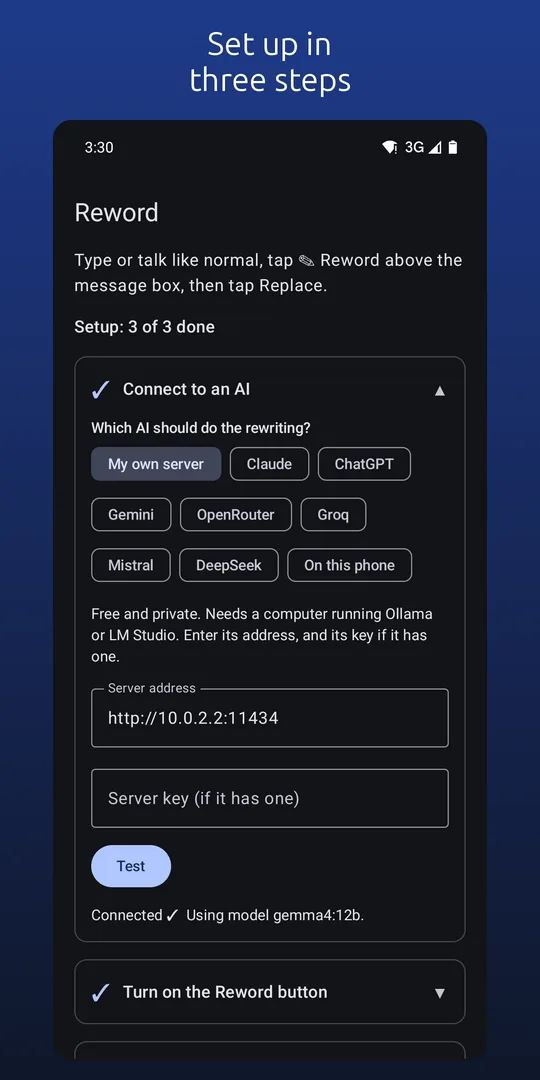
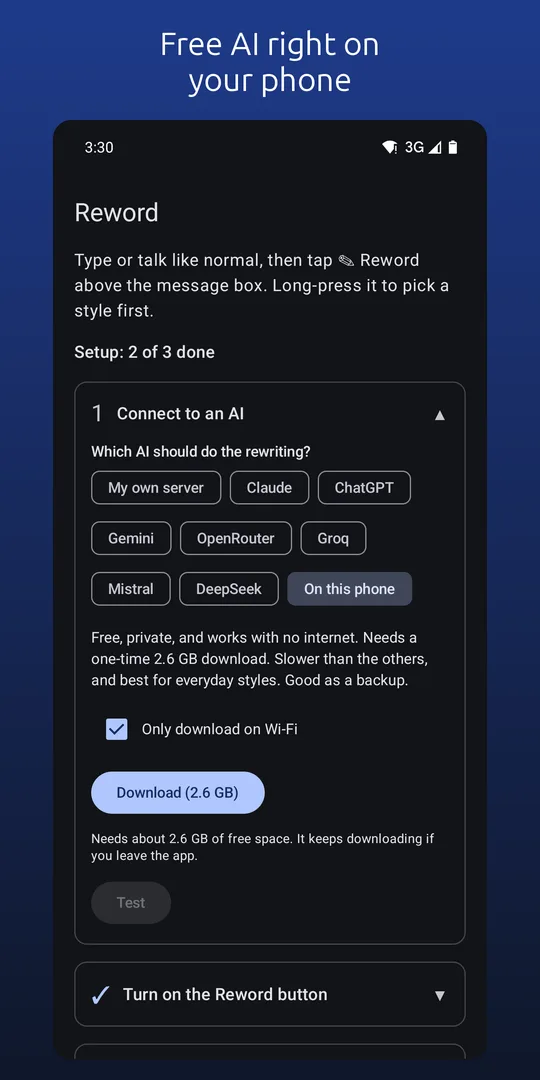
Privacy policy: every connection is encrypted; setup screenshot

diff --git a/index.html b/index.html
@@ -83,7 +83,7 @@ and see the rewrite before it goes in.</p>
   <li><a href="screens/05-piratesent.webp"><img src="screens/05-piratesent.webp" alt="The pirate rewrite after it was sent" width="540" height="1080" loading="lazy"></a></li>
   <li><a href="screens/06-lpbefore.webp"><img src="screens/06-lpbefore.webp" alt="Tapping the Reword button on a messy text about bringing home dinner" width="540" height="1080" loading="lazy"></a></li>
   <li><a href="screens/07-lpafter.webp"><img src="screens/07-lpafter.webp" alt="The text reworded in place as a rhyme at the Expert reading level, with an Undo button" width="540" height="1080" loading="lazy"></a></li>
-  <li><a href="screens/08-setup.webp"><img src="screens/08-setup.webp" alt="Setup: connect to an AI, turn on the Reword button, try it" width="540" height="1080" loading="lazy"></a></li>
+  <li><a href="screens/08-setup.webp"><img src="screens/08-setup.webp" alt="Setup: choosing the free AI that runs on the phone, with its one-time download" width="540" height="1080" loading="lazy"></a></li>
   <li><a href="screens/09-disclosure.webp"><img src="screens/09-disclosure.webp" alt="What the Reword button can see" width="540" height="1080" loading="lazy"></a></li>
   <li><a href="screens/10-settings.webp"><img src="screens/10-settings.webp" alt="Settings: your default type, style and reading level" width="540" height="1080" loading="lazy"></a></li>
   <li><a href="screens/11-extras.webp"><img src="screens/11-extras.webp" alt="Extras: the Reword keyboard, Quick Settings and the text-selection menu" width="540" height="1080" loading="lazy"></a></li>

diff --git a/privacy-policy.html b/privacy-policy.html
@@ -93,9 +93,9 @@ delete anything from it first. We use reports only to fix problems and prevent o
 <p>Reword is not directed at children under 13.</p>
 
 <h2>Security</h2>
-<p>Connections to the cloud AI services use encrypted HTTPS. A connection to your own server is
-encrypted if your server uses an https:// address. Your phone's lock screen protects the settings
-stored on it.</p>
+<p>Every connection the app makes to send your text is encrypted (HTTPS): to the cloud AI services
+and to your own server, which must have an https:// address. Your phone's lock screen protects the
+settings stored on it.</p>
 
 <h2>Changes</h2>
 <p>If this policy changes, we will update this page and its effective date. Significant changes will
